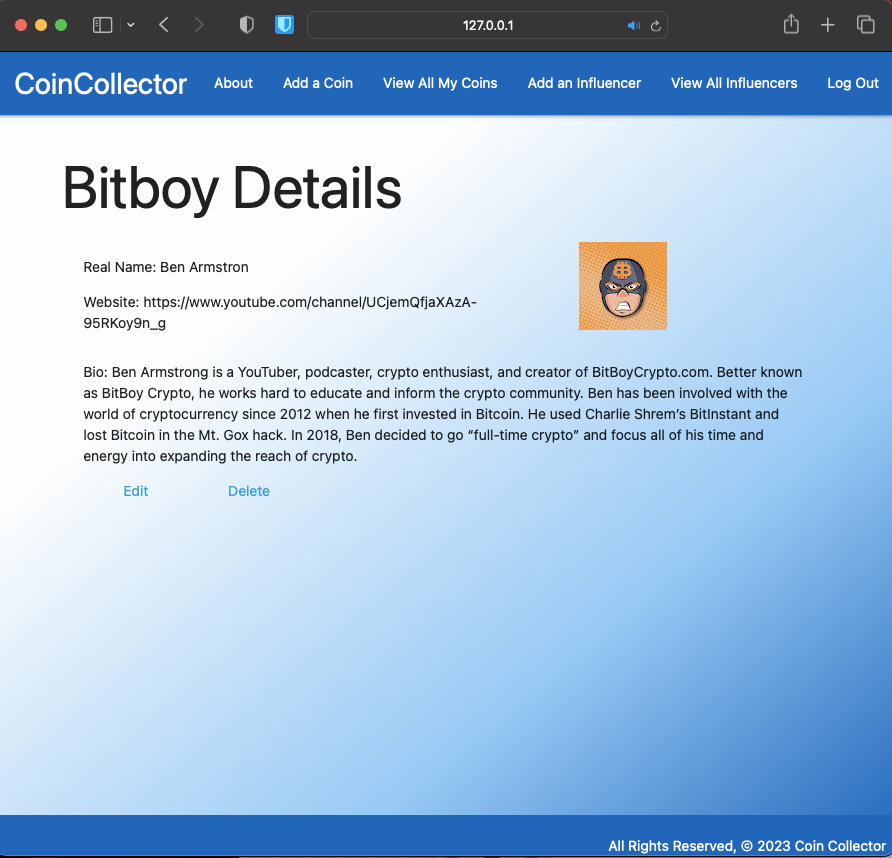
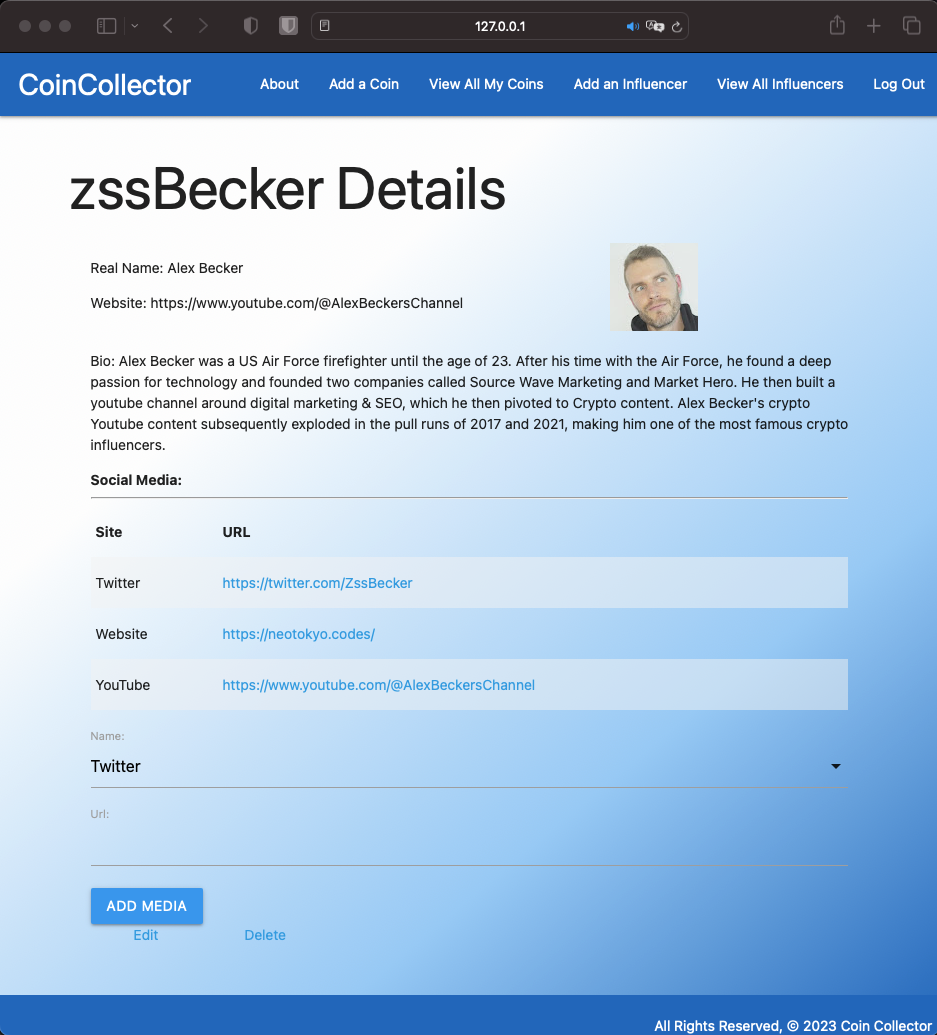
Create media model. Add to influencer detail

diff --git a/main_app/templates/influencers/detail.html b/main_app/templates/influencers/detail.html
@@ -15,11 +15,41 @@
         <div class="col s12">
             <p> Bio: {{ influencer.bio }} </p>
         </div>
+        <div class="col s12">
+            <h8> <b> Social Media: </b> </h8>
+            <hr>
+            <table class="striped">
+                <thead>
+                  <tr>
+                    <th>Site</th>
+                    <th>URL</th>
+                  </tr>
+                </thead>
+                <tbody>
+                  {% for media in influencer.media_set.all %}
+                  <tr>
+                    <td>{{ media.get_name_display }}</td>
+                    <td><a href="{{ media.url }}">{{ media.url }}</a></td>
+                  </tr>
+                  {% endfor %}
+                </tbody>
+            </table>
+            <form action="{% url 'add_media' influencer.id %}" method="POST">
+                {% csrf_token %}
+                {{ media_form.as_p }}
+                <input type="submit" value="Add Media" class="btn-small blue">
+            </form>
+        </div>
         <div class="col s4 card-action">
             <a href="{% url 'influencers_update' influencer.id %}">Edit</a>
             <a href="{% url 'influencers_delete' influencer.id %}">Delete</a>
         </div>
     </div>
 </div>
+
+<script>
+    var selectEl = document.getElementById('id_name');
+    M.FormSelect.init(selectEl);
+  </script>
 
 {% endblock %}

diff --git a/main_app/templates/influencers/index.html b/main_app/templates/influencers/index.html
@@ -5,7 +5,7 @@
 {% for influencer in influencers %}
 
 <div class="card">
-<a href="{% url 'inf_detail' influencer.id %}"> 
+<a href="{% url 'influencers_detail' influencer.id %}"> 
     <div class="card-content">
         <span class="card-title">{{ influencer.name }}</span>
         <div class="coin_card">

diff --git a/main_app/templates/main_app/influencer_form.html b/main_app/templates/main_app/influencer_form.html
@@ -12,6 +12,6 @@
     <!-- Render the inputs inside of <tr>s & <td>s -->
     {{ form.as_table }}
   </table>
-  <input type="submit" value="Submit!" class="btn" />
+  <input type="submit" value="Submit!" class="btn-small" />
 </form>
 {% endblock %}

diff --git a/main_app/templates/main_app/coin_form.html b/main_app/templates/main_app/coin_form.html
@@ -12,6 +12,6 @@
     <!-- Render the inputs inside of <tr>s & <td>s -->
     {{ form.as_table }}
   </table>
-  <input type="submit" value="Submit!" class="btn" />
+  <input type="submit" value="Create" class="btn-small" />
 </form>
 {% endblock %}

diff --git a/main_app/static/css/style.css b/main_app/static/css/style.css
@@ -14,6 +14,10 @@ padding-top: 0;
 text-align: right;
 }
 
+form {
+    margin: 1rem;
+}
+
 .coin_card {
     display: flex;
     flex-direction: row;
@@ -36,3 +40,4 @@ text-align: right;
     height: 50px;
     margin-right: 10px;
 }
+

diff --git a/main_app/views.py b/main_app/views.py
@@ -1,6 +1,7 @@
 from django.shortcuts import render, redirect
 from .models import Coin, Influencer
 from django.views.generic.edit import CreateView, UpdateView, DeleteView
+from .forms import MediaForm
 from django.contrib.auth import login
 from django.contrib.auth.forms import UserCreationForm
 # Import login_required to protect def views
@@ -80,7 +81,12 @@ def influencers_index(request):
 @login_required
 def influencers_detail(request, influencer_id):
     influencer = Influencer.objects.get(id=influencer_id)
-    return render(request, 'influencers/detail.html', { 'influencer': influencer })
+    # instantiate MediaForm to be rendered in the template
+    media_form = MediaForm()
+    return render(request, 'influencers/detail.html', { 
+        'influencer': influencer,
+        'media_form': media_form 
+    })
 
 # Define the influencers create view
 class InfluencerCreate(LoginRequiredMixin, CreateView):
@@ -107,6 +113,21 @@ class InfluencerDelete(LoginRequiredMixin, DeleteView):
     model = Influencer
     success_url = '/influencers/'
 
+# Define the add media view
+@login_required
+def add_media(request, influencer_id):
+    # create the ModelForm using the data in request.POST
+    form = MediaForm(request.POST)
+    # validate the form
+    if form.is_valid():
+        # don't save the form to the db until it
+        # has the influencer_id assigned
+        new_media = form.save(commit=False)
+        new_media.influencer_id = influencer_id
+        new_media.save()
+    return redirect('influencers_detail', influencer_id=influencer_id)
+
+# Define the signup view
 def signup(request):
   error_message = ''
   # If the request method is POST, this is a sign-up attempt

diff --git a/main_app/migrations/0009_media.py b/main_app/migrations/0009_media.py
@@ -1,0 +1,23 @@
+# Generated by Django 4.1.5 on 2023-02-06 05:15
+
+from django.db import migrations, models
+import django.db.models.deletion
+
+
+class Migration(migrations.Migration):
+
+    dependencies = [
+        ('main_app', '0008_influencer_bio'),
+    ]
+
+    operations = [
+        migrations.CreateModel(
+            name='Media',
+            fields=[
+                ('id', models.BigAutoField(auto_created=True, primary_key=True, serialize=False, verbose_name='ID')),
+                ('name', models.CharField(choices=[('T', 'Twitter'), ('I', 'Instagram'), ('Y', 'YouTube'), ('S', 'Snapchat'), ('F', 'Facebook'), ('P', 'Podcast'), ('B', 'Blog'), ('W', 'Website'), ('O', 'Other')], default='T', max_length=1)),
+                ('url', models.CharField(blank=True, max_length=250)),
+                ('influencer', models.ForeignKey(on_delete=django.db.models.deletion.CASCADE, to='main_app.influencer')),
+            ],
+        ),
+    ]

diff --git a/main_app/models.py b/main_app/models.py
@@ -16,6 +16,28 @@ class Influencer(models.Model):
     def get_absolute_url(self):
         return reverse('influencers_detail', kwargs={'influencer_id': self.id})
 
+class Media(models.Model):
+    NAME = (
+        ('T', 'Twitter'),
+        ('I', 'Instagram'),
+        ('Y', 'YouTube'),
+        ('S', 'Snapchat'),
+        ('F', 'Facebook'),
+        ('P', 'Podcast'),
+        ('B', 'Blog'),
+        ('W', 'Website'),
+        ('O', 'Other')
+    )
+    name = models.CharField(max_length=1, choices=NAME, default=NAME[0][0])
+    url = models.CharField(max_length=250, blank=True)
+    influencer = models.ForeignKey(Influencer, on_delete=models.CASCADE)
+
+    def __str__(self) -> str:
+        return f"{self.get_name_display()} at {self.url}"
+    
+    class Meta:
+        ordering = ('name',)
+
 class Coin(models.Model):
     name = models.CharField(max_length=50)
     symbol = models.CharField(max_length=10, default='BTC', blank=True)

diff --git a/main_app/urls.py b/main_app/urls.py
@@ -12,7 +12,8 @@ urlpatterns = [
     path('coins/<int:coin_id>/assoc_influencer/<int:influencer_id>/', views.assoc_influencer, name='assoc_influencer'),
     path('coins/<int:coin_id>/unassoc_influencer/<int:influencer_id>/', views.unassoc_influencer, name='unassoc_influencer'),
     path('influencers/', views.influencers_index, name='inf_index'),
-    path('influencers/<int:influencer_id>/', views.influencers_detail, name='inf_detail'),
+    path('influencers/<int:influencer_id>/', views.influencers_detail, name='influencers_detail'),
+    path('influencers/<int:influencer_id>/add_media/', views.add_media, name='add_media'),
     path('influencers/create/', views.InfluencerCreate.as_view(), name='influencers_create'),
     path('influencers/<int:pk>/update/', views.InfluencerUpdate.as_view(), name='influencers_update'),
     path('influencers/<int:pk>/delete/', views.InfluencerDelete.as_view(), name='influencers_delete'),

diff --git a/main_app/admin.py b/main_app/admin.py
@@ -1,6 +1,7 @@
 from django.contrib import admin
-from .models import Influencer, Coin
+from .models import Influencer, Coin, Media
 
 # Register your models here.
 admin.site.register(Influencer)
 admin.site.register(Coin)
+admin.site.register(Media)

diff --git a/main_app/forms.py b/main_app/forms.py
@@ -1,0 +1,8 @@
+from django.forms import ModelForm
+from .models import Media
+
+class MediaForm(ModelForm):
+    class Meta:
+        model = Media
+        fields = ['name', 'url']
+

diff --git a/README.md b/README.md
@@ -1,7 +1,7 @@
-# CryptoList
+# CoinCollector
 --- 
 
-CoinCollector is an early stage beta for a crypto currency research and portfolio management solution. The primary purpose of this app is to beta demo Python and Django interactions. This project is based on an automated spreadsheet used to manage cryptocurrency research, price monitoring, and portfolio management over a six year period from 2016 to 2022. 
+CoinCollector is prototype for a crypto currency research and portfolio management solution. The primary purpose of this app is to beta demo Python and Django interactions. This project is based on an automated spreadsheet used to manage cryptocurrency research, price monitoring, and portfolio management over a six year period from 2016 to 2022. 
 
 ## Technologies Used: 
 --- 
@@ -31,12 +31,12 @@ A live version of this app is hosted on <TBD>
 - [x] Authentication
   - [X] Login/Logout
   - [X] Sign Up
-- [ ] 3 Models
+- [X] 3 Models
   - [x] Coin
   - [x] Influencer
-  - [ ] Media
-- [ ] One-to-many relationship
-  - [ ] Influencer to Media
+  - [X] Media
+- [X] One-to-many relationship
+  - [X] Influencer to Media
 - [X] Many-to-many relationship
   - [X] Coin to Influencer
 - [x] Admin View
@@ -60,9 +60,9 @@ App will be refactored for use in a future Django project.
 ## Project MVP Description and Rubric
 --- 
 
-- [ ] One-to-many relationship (ex: cats to feedings)
+- [X] One-to-many relationship (ex: cats to feedings)
 - [x] Many-to-many relationship (ex: cats to toys)
-- [ ] 3 Models (ex: cats, feedings, toys)
+- [X] 3 Models (ex: cats, feedings, toys)
 - [x] Admin View
 - [x] Authentication
 
